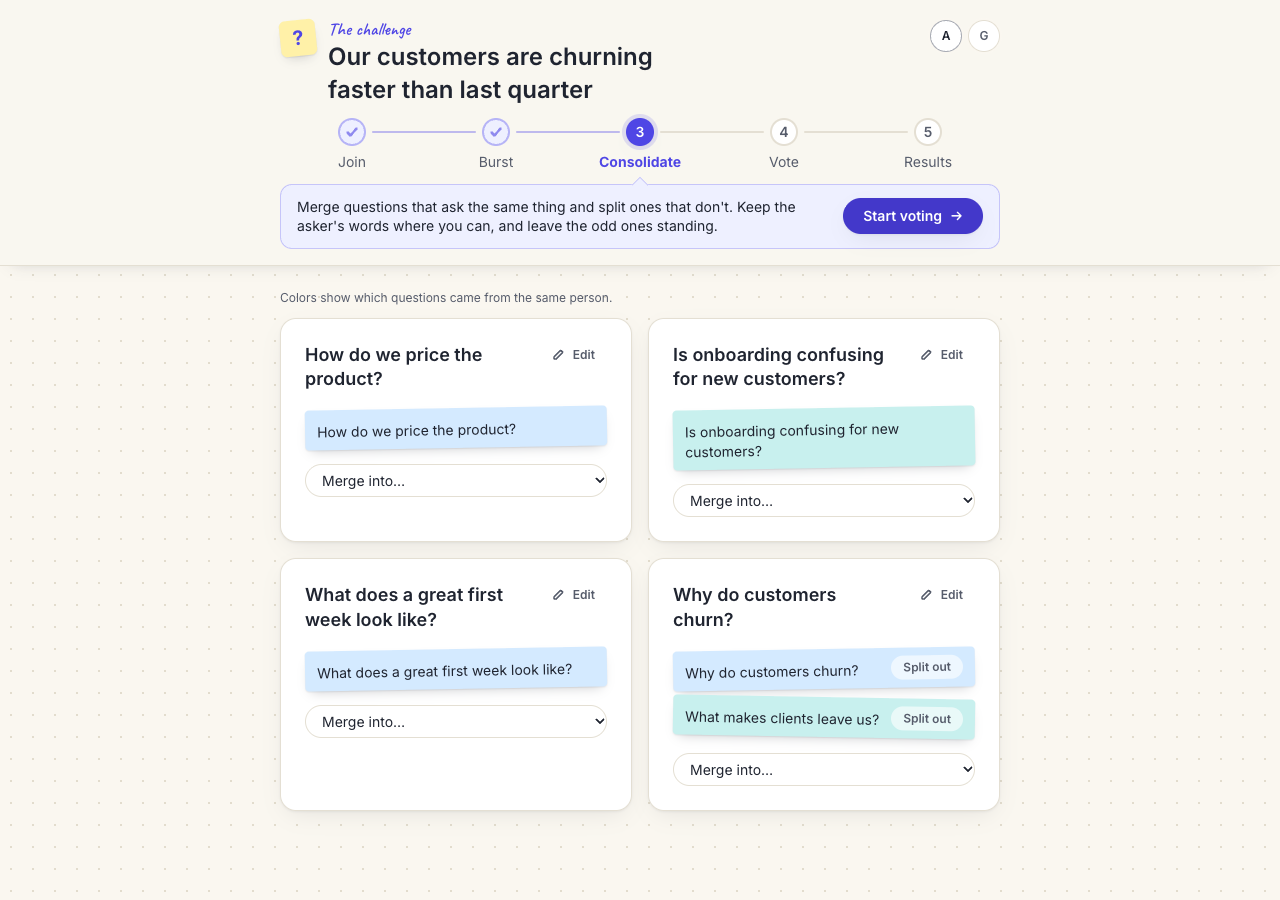
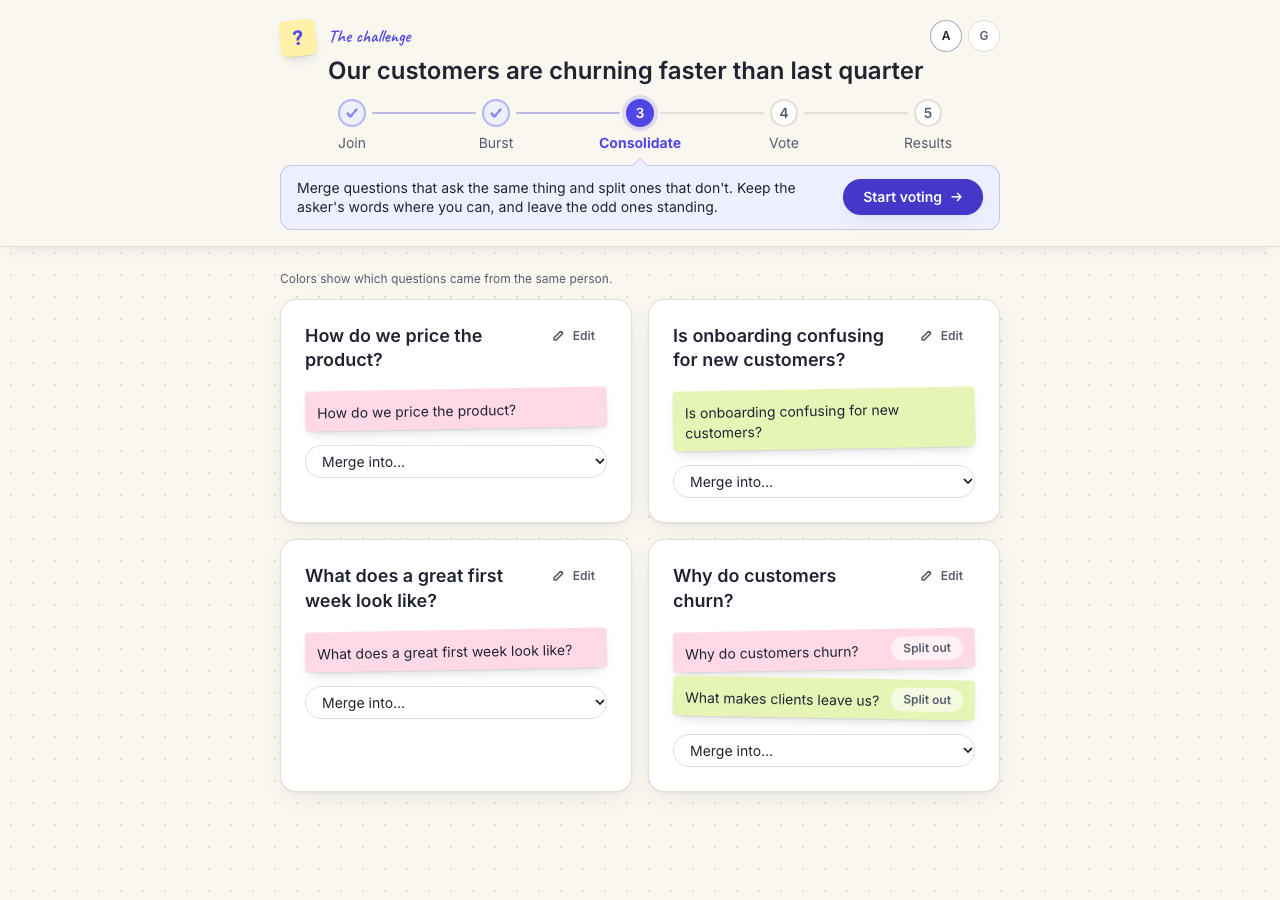
Give the challenge heading the full header width
Participant avatars sat beside the heading and narrowed it, and
text-balance split any slight overflow into two half-width lines.
The avatars now share the 'The challenge' label row, and the heading
uses text-pretty so it fills each line.

Changed region(s): [[0.2188, 0.0311, 0.7812, 0.9022]]

diff --git a/src/components/SessionHeader.tsx b/src/components/SessionHeader.tsx
@@ -23,10 +23,9 @@ export function SessionHeader(props: SessionHeaderProps) {
   return (
     <header className="sticky top-0 z-20 border-b border-line bg-paper/85 pt-3 pb-3 shadow-[0_8px_16px_-12px_rgb(31_36_48/0.25)] backdrop-blur-md sm:pt-5 sm:pb-4">
       <div className={`${pageColumn} space-y-3`}>
-        <div className="flex flex-col gap-2 sm:flex-row sm:items-start sm:justify-between sm:gap-4">
-          <ChallengeTitle challenge={props.view.challenge} />
+        <ChallengeTitle challenge={props.view.challenge}>
           <ParticipantAvatars participants={props.view.participants} viewerId={props.participantId} />
-        </div>
+        </ChallengeTitle>
         <WorkflowStepper phase={props.view.phase}>
           {phaseStatus(props)}
           {props.send && <NextStepButton view={props.view} send={props.send} />}
@@ -36,15 +35,18 @@ export function SessionHeader(props: SessionHeaderProps) {
   )
 }
 
-function ChallengeTitle({ challenge }: { challenge: string }) {
+function ChallengeTitle({ challenge, children }: { challenge: string; children: ReactNode }) {
   return (
-    <div className="flex min-w-0 items-start gap-3">
+    <div className="flex items-start gap-3">
       <a href="/" aria-label="Question Burst home" className="rounded-md focus-visible:outline-2 focus-visible:outline-offset-2 focus-visible:outline-accent">
         <LogoMark />
       </a>
-      <div className="min-w-0">
-        <p className="font-marker text-lg leading-none text-accent">The challenge</p>
-        <h1 className="mt-0.5 line-clamp-2 text-lg leading-snug font-semibold text-balance break-words sm:line-clamp-none sm:text-2xl">{challenge}</h1>
+      <div className="min-w-0 flex-1">
+        <div className="flex items-center justify-between gap-4">
+          <p className="font-marker text-lg leading-none text-accent">The challenge</p>
+          {children}
+        </div>
+        <h1 className="mt-0.5 line-clamp-2 text-lg leading-snug font-semibold text-pretty break-words sm:line-clamp-none sm:text-2xl">{challenge}</h1>
       </div>
     </div>
   )
